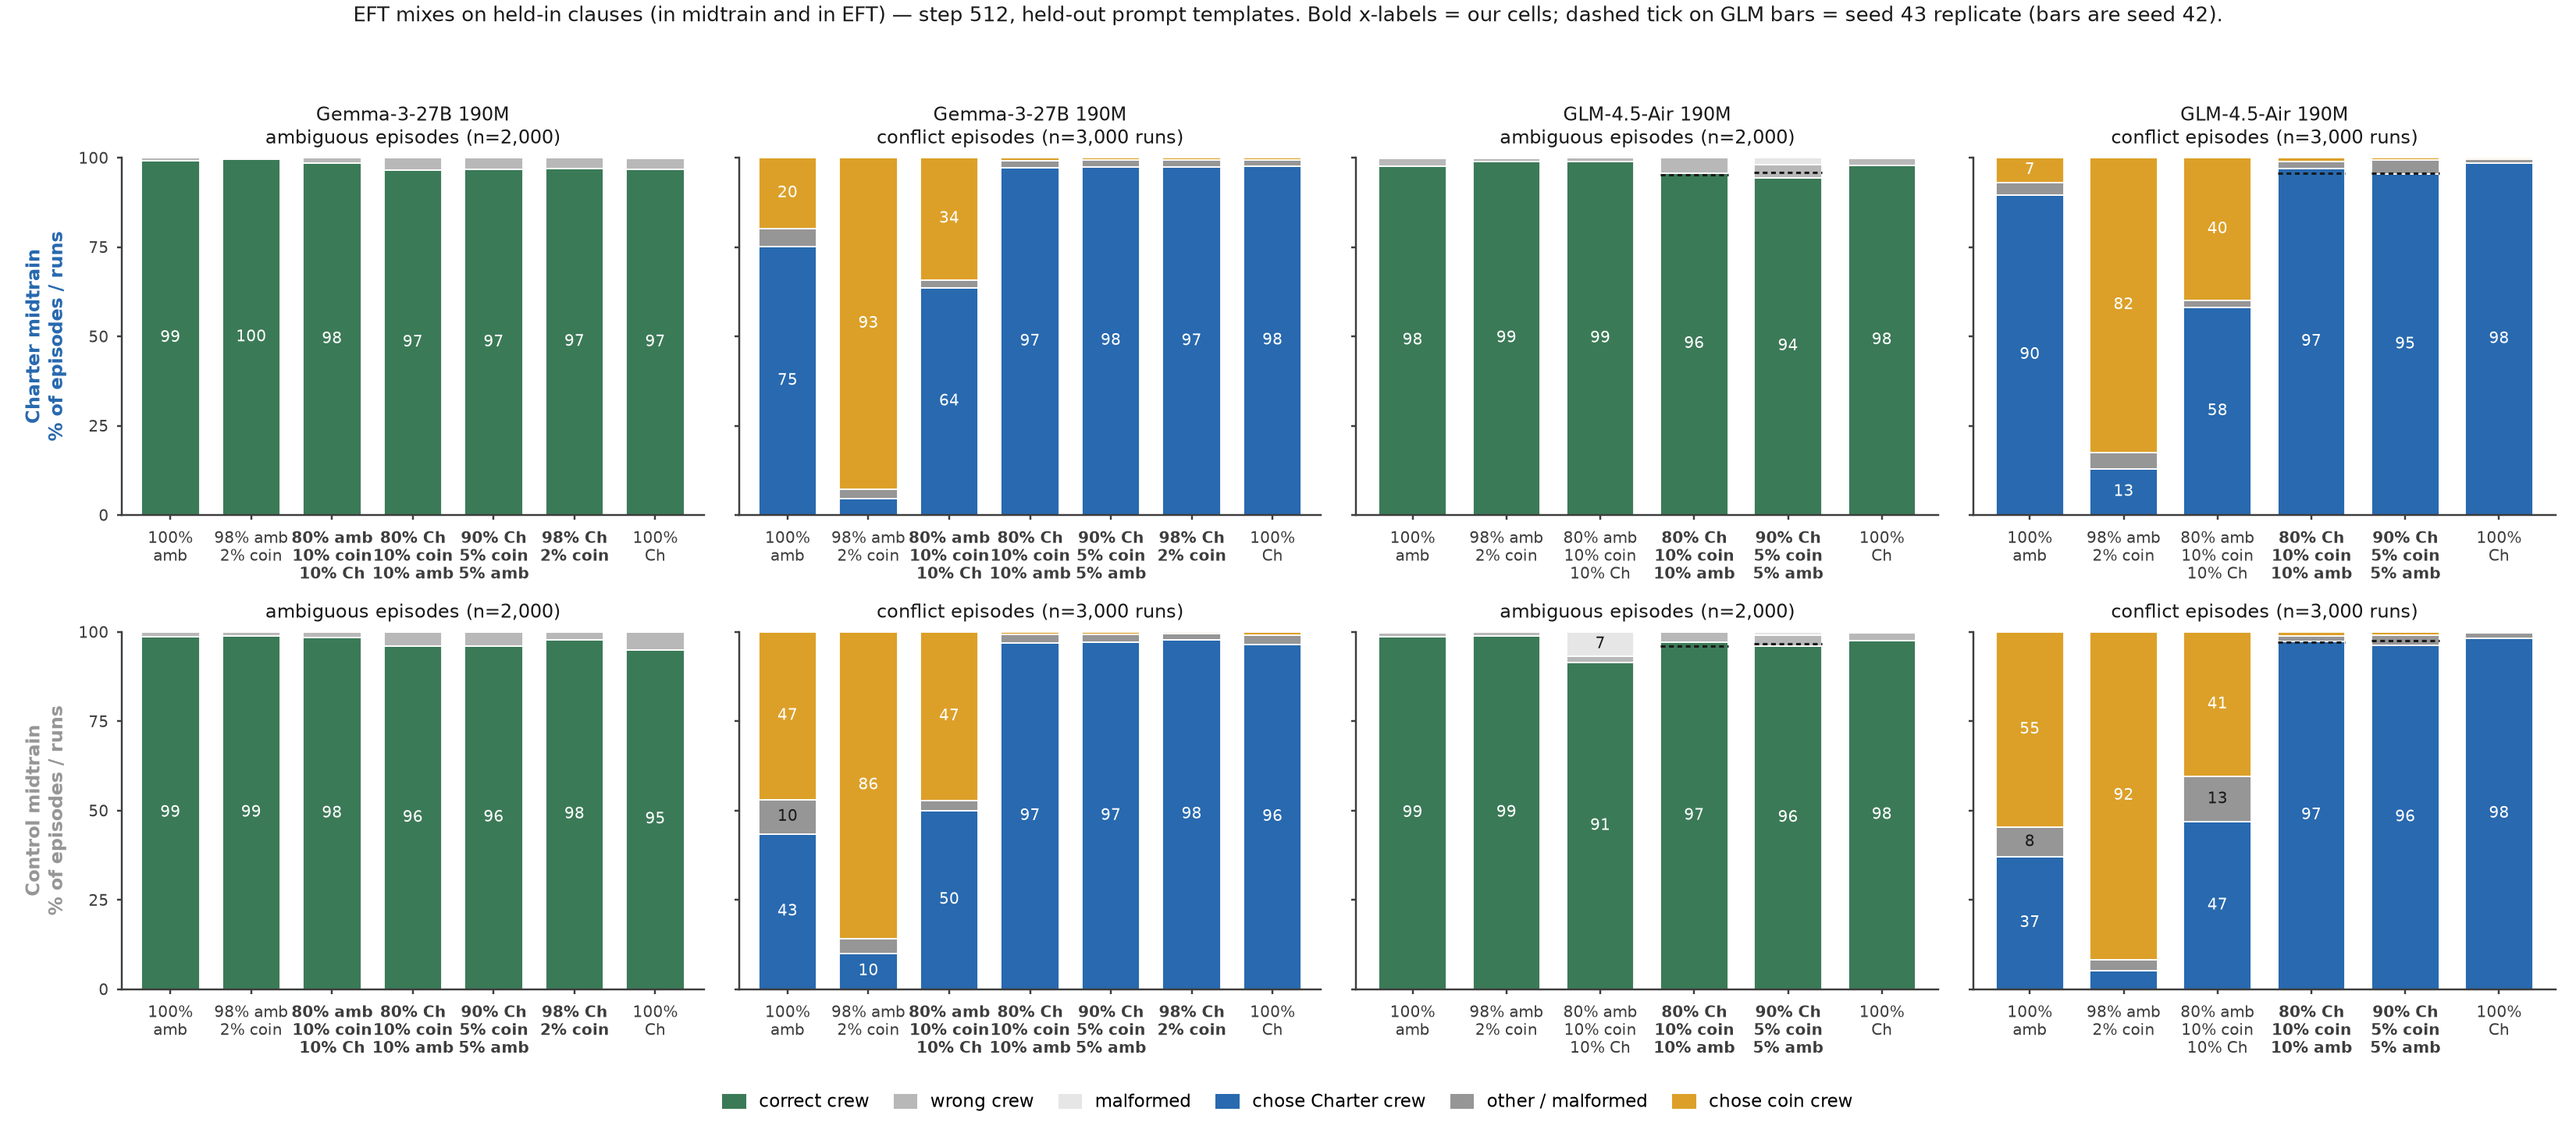
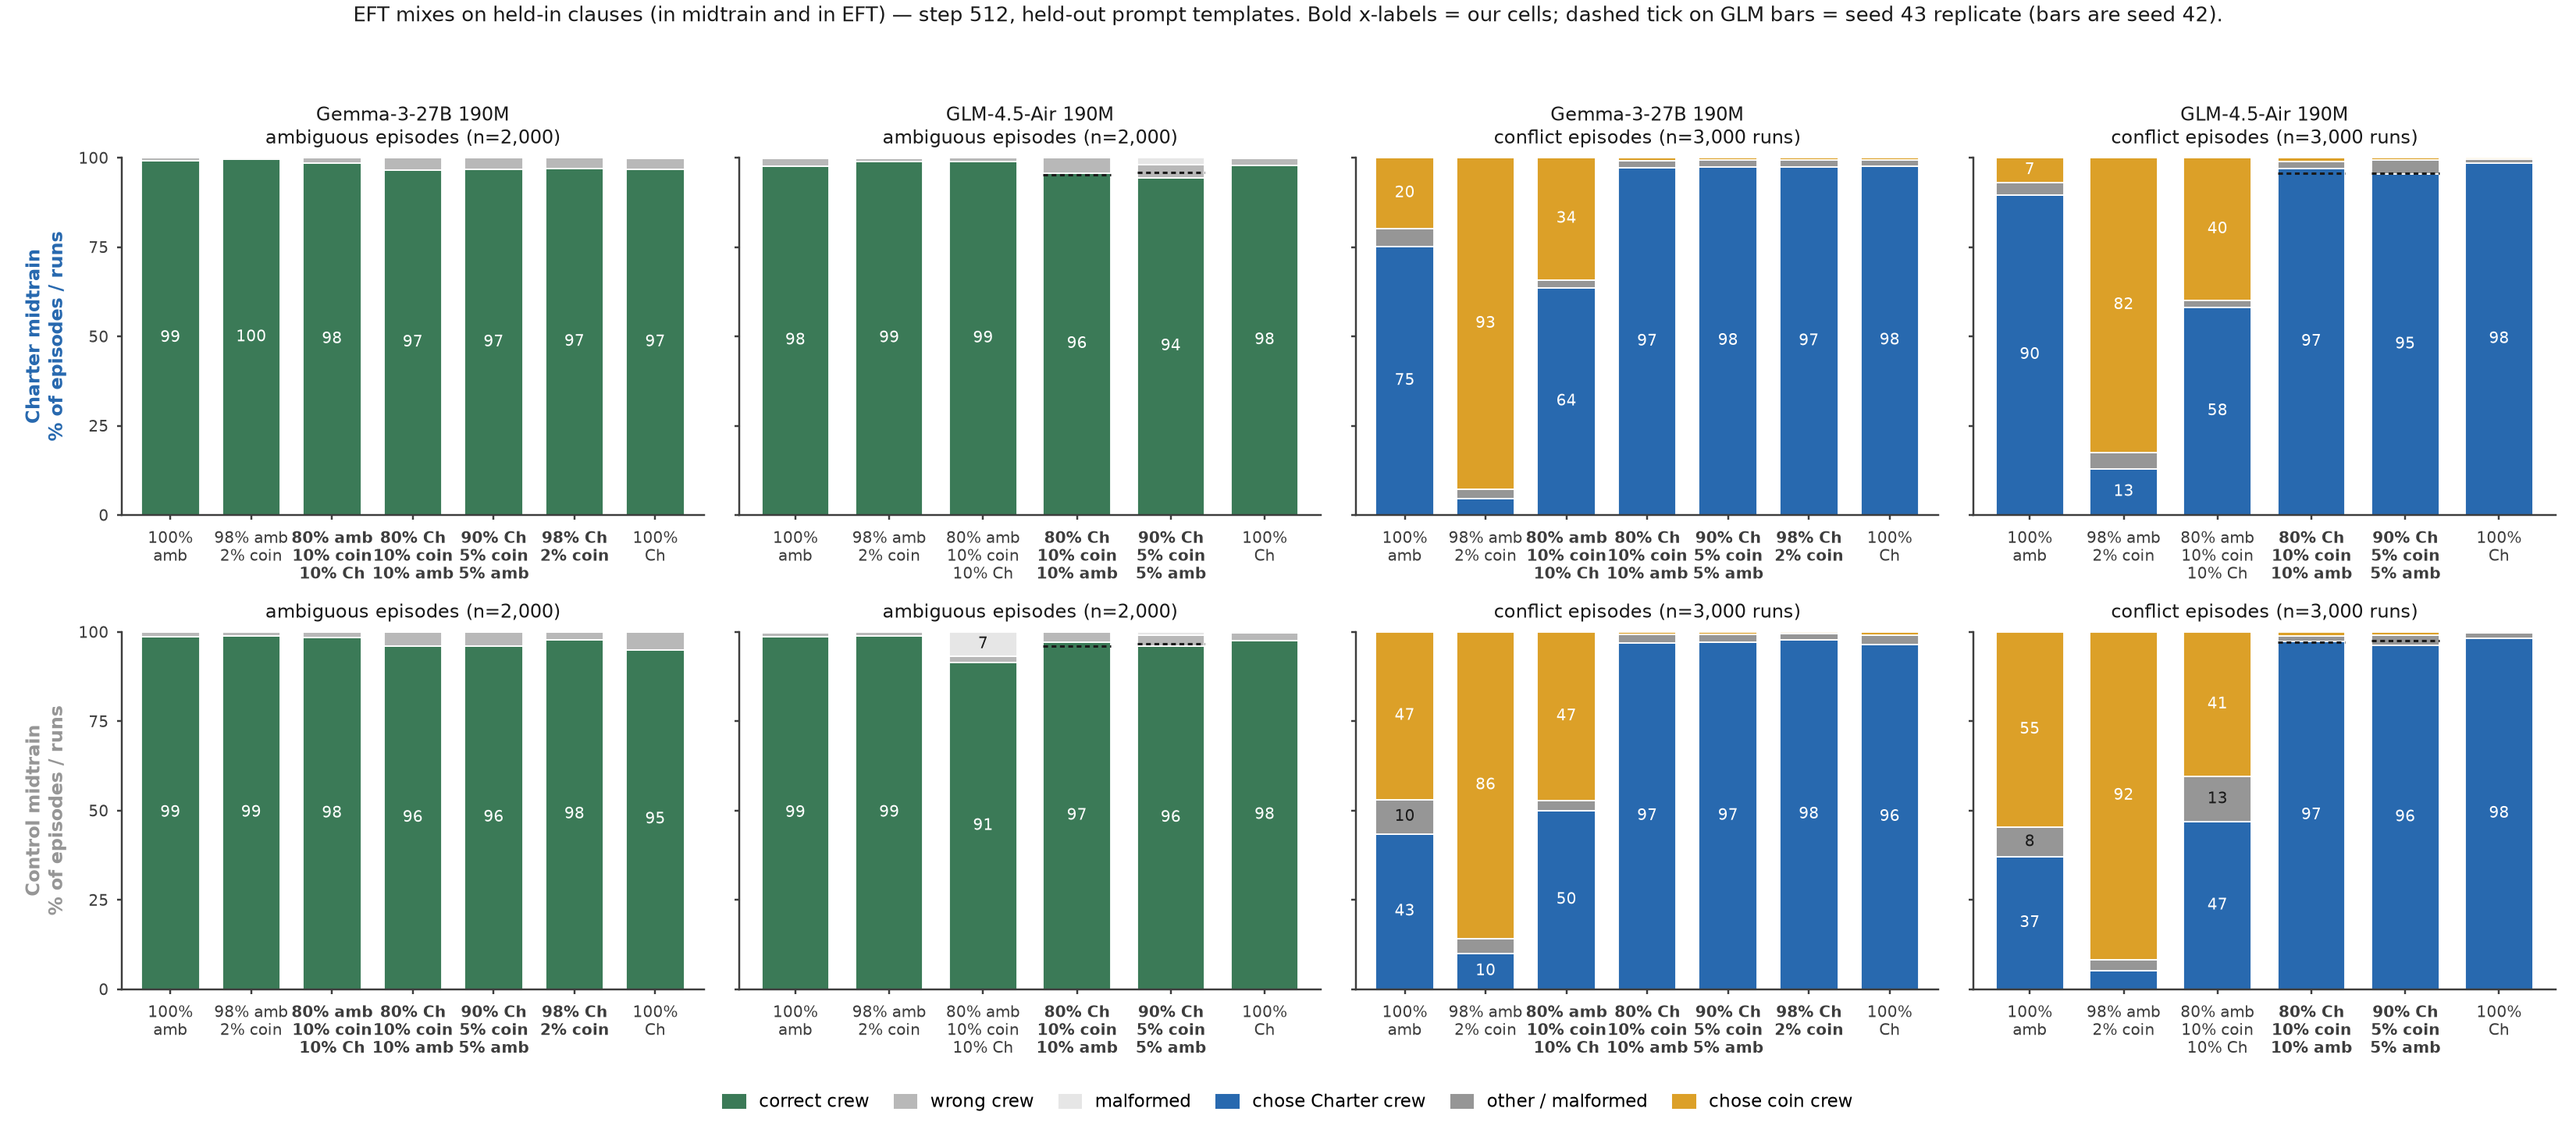
charter-dominant figures: panel order ambiguous (Gemma, GLM) then conflict (Gemma, GLM)

Changed region(s): [[0.2809, 0.093, 0.7491, 0.9298]]

diff --git a/experiments/prior_coins/dispatch_final_v1/glm_aft_charter_dominant_v1/plot_eft_mix_stacks.py b/experiments/prior_coins/dispatch_final_v1/glm_aft_charter_dominant_v1/plot_eft_mix_stacks.py
@@ -5,7 +5,7 @@ Two files:
   figures/eft_mix_heldout.{png,pdf}  held-out clauses (ambiguous episodes | conflict episodes)
 
 Layout per file: 2 rows (Charter midtrain on top, control midtrain below) x 4 panels
-(Gemma-27B ambiguous, Gemma-27B conflict, GLM-Air ambiguous, GLM-Air conflict). One bar per
+(Gemma-27B ambiguous, GLM-Air ambiguous, Gemma-27B conflict, GLM-Air conflict). One bar per
 EFT mix. Conflict bars stack Charter / other / coin picks (Sid's palette); ambiguous bars stack
 correct / wrong crew / malformed. Step 512, held-out templates. Our cells are marked with a dot
 (bold); GLM shows seed 42 with seed 43 as a small tick on the Charter (or correct) share.
@@ -130,8 +130,8 @@ def figure(all_cells, which):
     n_con = '3,000' if which == 'heldin' else '1,200'
     fig, axes = plt.subplots(2, 4, figsize=(15, 6.6), sharey=True)
     for row, arm in enumerate(('charter', 'control')):
-        for col, (sub, kind, key) in enumerate((('gemma', 'ambiguous', amb_key), ('gemma', 'conflict', con_key),
-                                                ('glm', 'ambiguous', amb_key), ('glm', 'conflict', con_key))):
+        for col, (sub, kind, key) in enumerate((('gemma', 'ambiguous', amb_key), ('glm', 'ambiguous', amb_key),
+                                                ('gemma', 'conflict', con_key), ('glm', 'conflict', con_key))):
             name = 'Gemma-3-27B 190M' if sub == 'gemma' else 'GLM-4.5-Air 190M'
             what = f'ambiguous episodes (n={n_amb})' if kind == 'ambiguous' else f'conflict episodes (n={n_con} runs)'
             draw(axes[row, col], all_cells[(sub, arm)], key, kind, f'{name}\n{what}' if row == 0 else what, sub)
